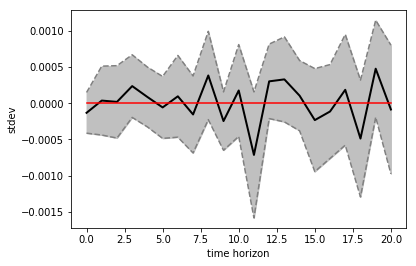
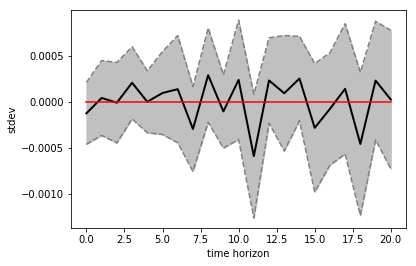
Rerun the regression without seasonally adjusting shocks

diff --git a/analysis/7_LP_estimation.py b/analysis/7_LP_estimation.py
@@ -78,7 +78,6 @@ shock_series = (
     
 shock_series.index=data.index[:158]
 
-shock_series = shock_series - seasonal_decompose(shock_series, model='additive').seasonal
 
 
 

diff --git a/analysis/7_LP_estimation_agg_CPI.py b/analysis/7_LP_estimation_agg_CPI.py
@@ -65,7 +65,6 @@ shock_series = (
     
 shock_series.index=data.index[:158]
 
-shock_series = shock_series - seasonal_decompose(shock_series, model='additive').seasonal
 
 
 
